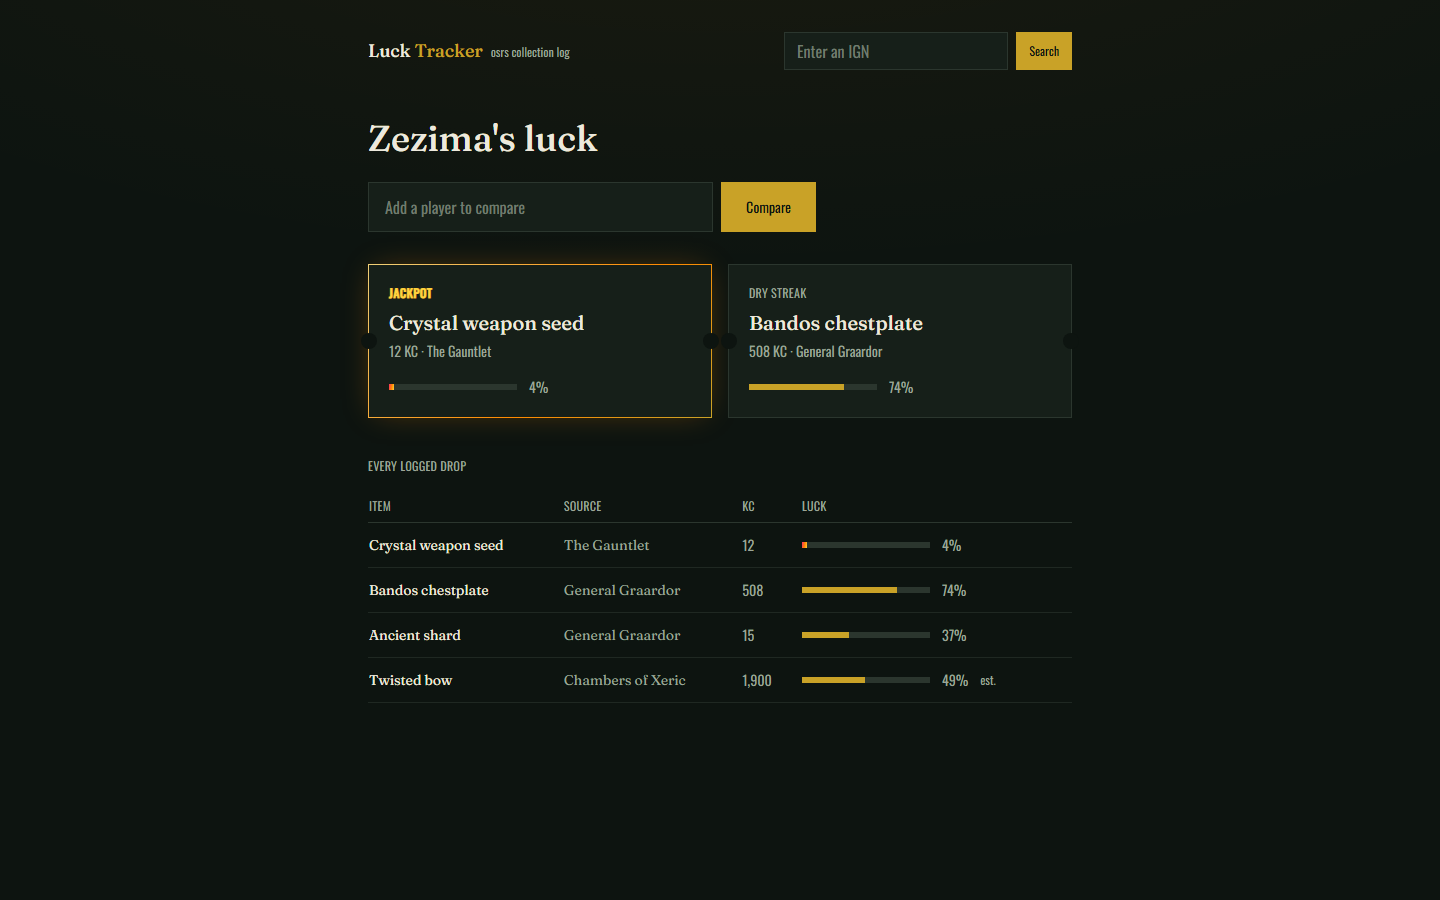
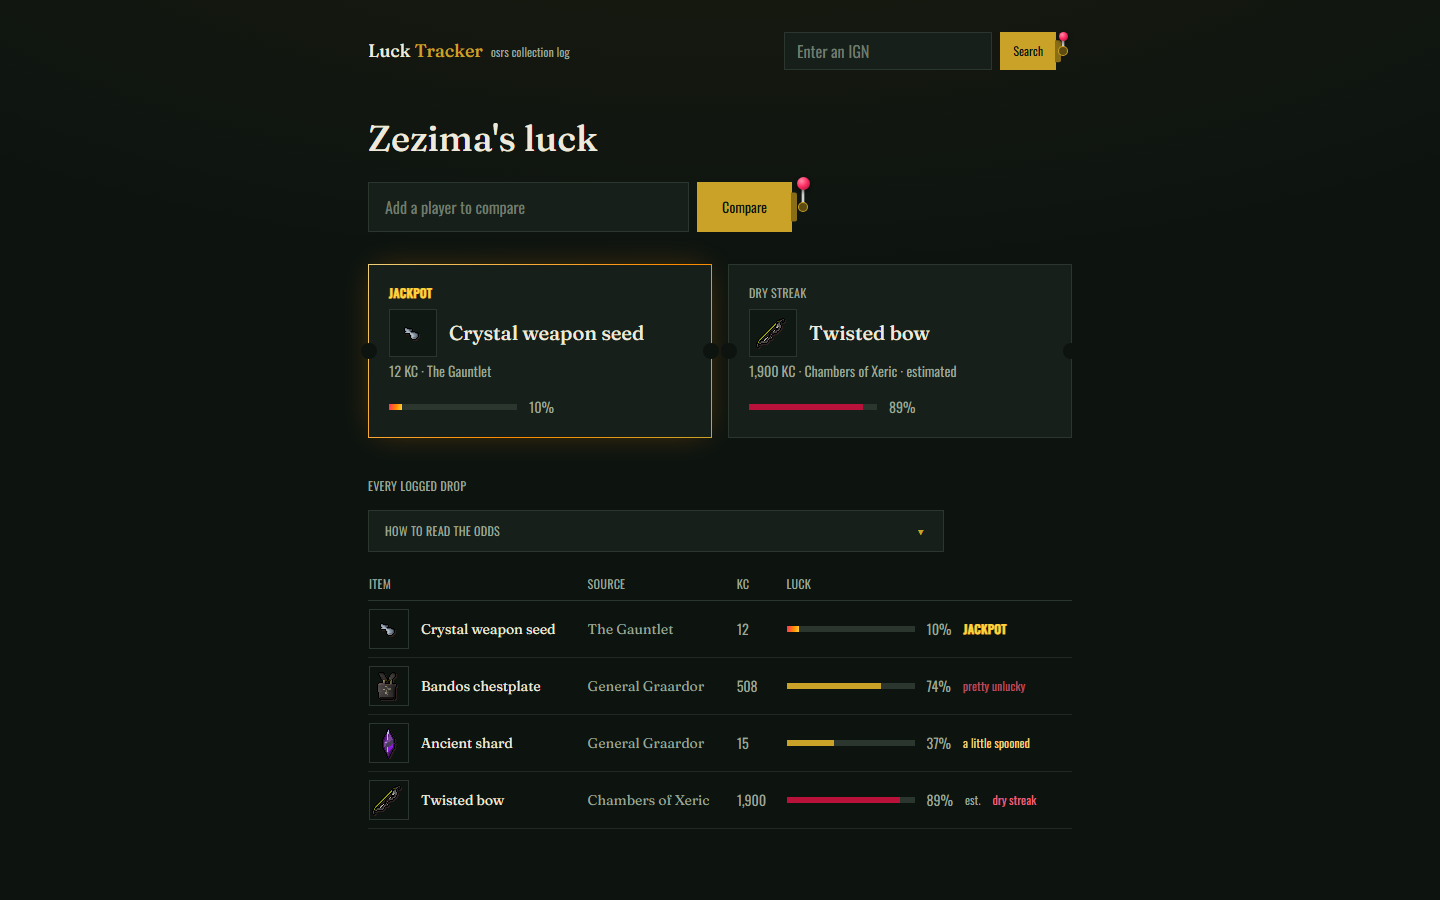
Refresh the Luck Tracker preview with the new frontend
New screenshot of the live demo shows the slot levers, item icons,
odds key and finer luck wording. Alt text updated to match.

diff --git a/index.html b/index.html
@@ -693,7 +693,7 @@
           <article class="project reveal">
             <a class="preview" href="https://osrs-luck-tracker.vercel.app/player/Zezima" target="_blank" rel="noopener" aria-label="Open the OSRS Luck Tracker live demo">
               <div class="preview-bar"><span class="dots"><i></i><i></i><i></i></span><span class="url">osrs-luck-tracker.vercel.app/player/Zezima</span></div>
-              <div class="preview-shot"><img src="assets/previews/osrs-luck-tracker.png" alt="OSRS Luck Tracker profile page showing a player's rarest drops and a luck percentile for each item" loading="lazy" width="1440" height="900" /></div>
+              <div class="preview-shot"><img src="assets/previews/osrs-luck-tracker.png" alt="OSRS Luck Tracker profile page showing a player's jackpot and dry-streak drops, item icons, and a luck percentile with a verdict for each item" loading="lazy" width="1440" height="900" /></div>
             </a>
             <div>
               <p class="project-kicker">Full-stack · Data · Game client plugin</p>
